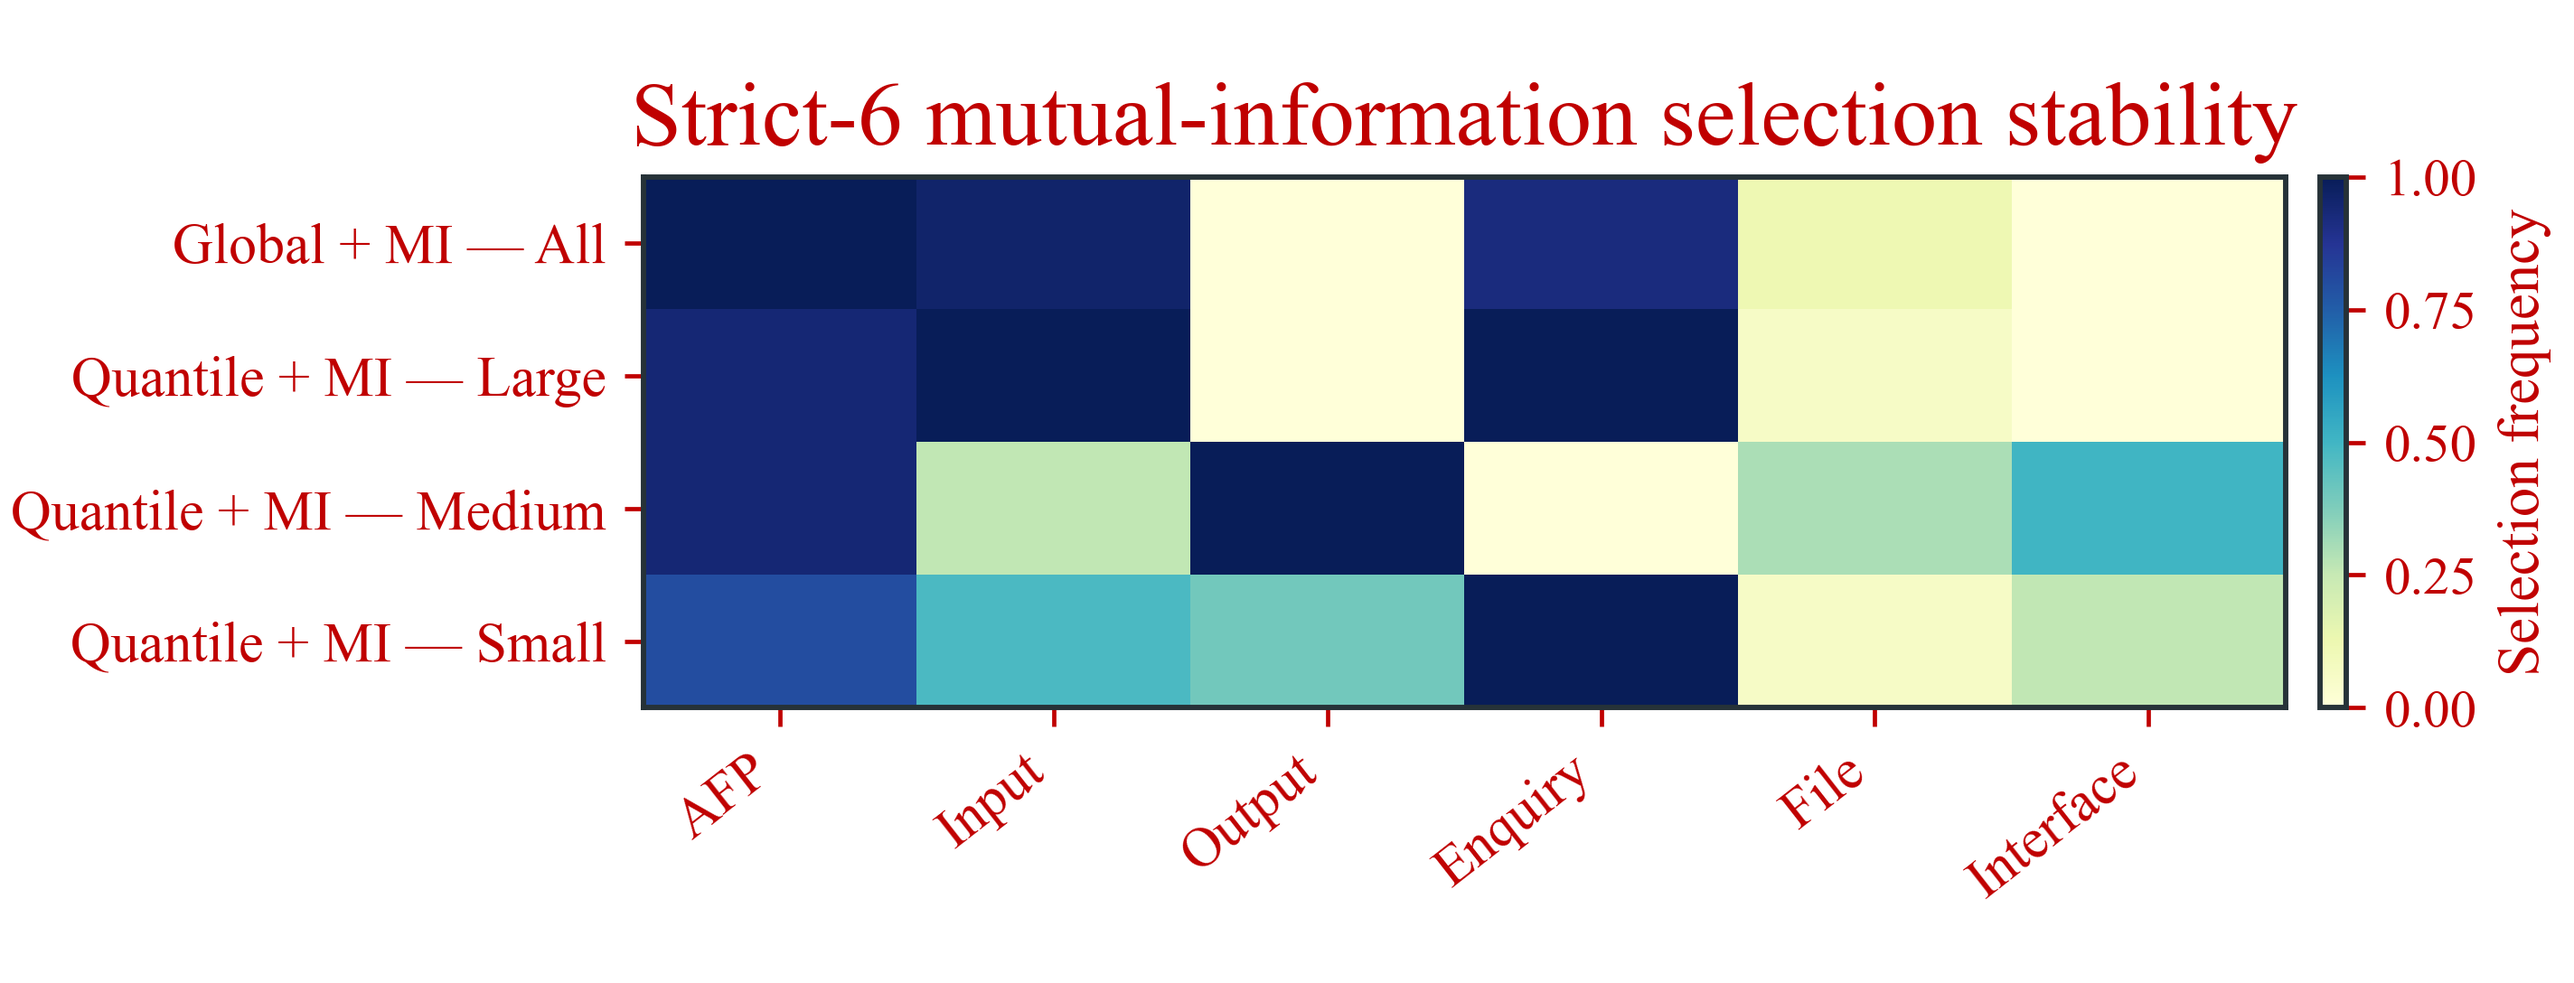
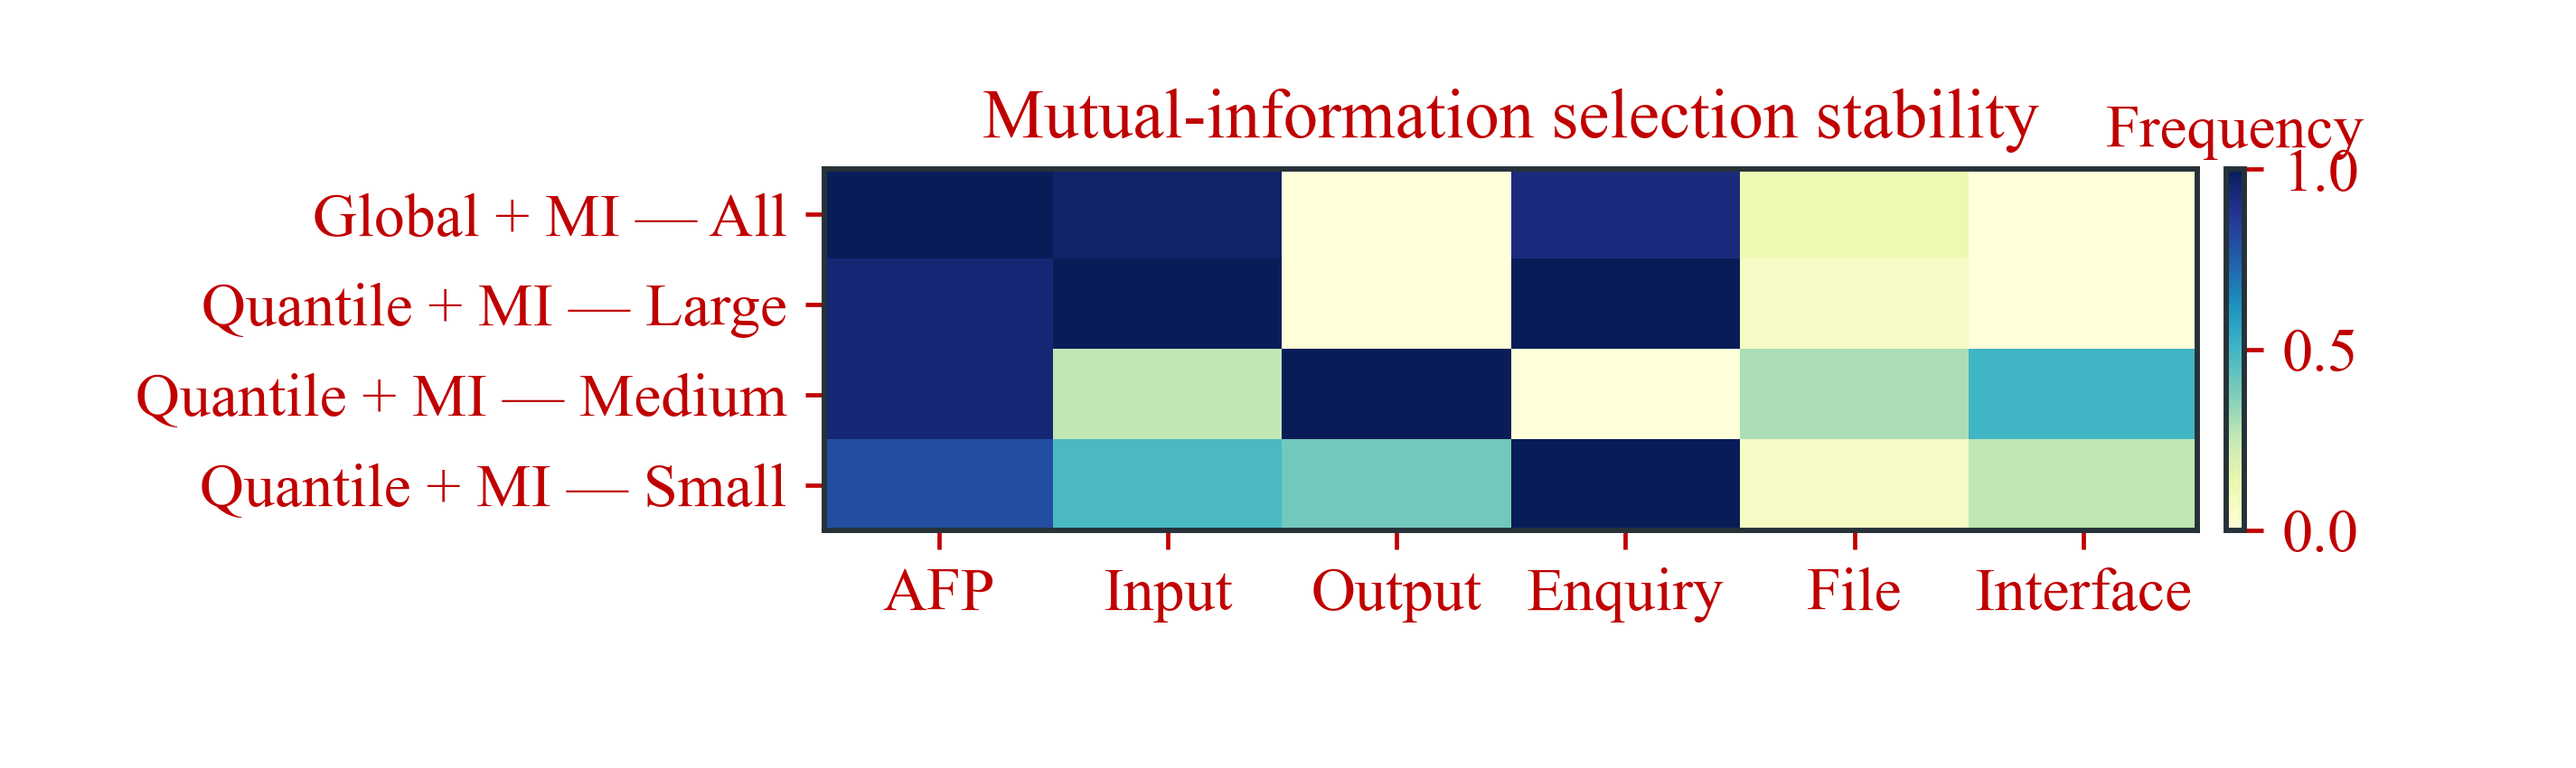
Refine manuscript figures for IJIES format

Changed region(s): [[0.0, 0.0918, 1.0, 0.9176], [0.25, 0.7647, 0.3125, 0.8565], [0.5625, 0.8259, 0.5938, 0.8871]]

diff --git a/generate_figures.py b/generate_figures.py
@@ -40,6 +40,11 @@ def configure_style() -> None:
             "ytick.color": TEXT_RED,
             "axes.edgecolor": EDGE,
             "axes.linewidth": 1.0,
+            "axes.labelsize": 12,
+            "axes.titlesize": 13,
+            "xtick.labelsize": 11.5,
+            "ytick.labelsize": 11.5,
+            "legend.fontsize": 11.5,
             "grid.color": "#E0E0E0",
             "grid.linewidth": 0.8,
             "figure.facecolor": "white",
@@ -60,7 +65,7 @@ def workflow_figure(path: Path) -> None:
     ax.set_ylim(0, 1)
     ax.axis("off")
 
-    def box(x, y, w, h, text, face, size=12, weight="normal"):
+    def box(x, y, w, h, text, face, size=10.5, weight="normal"):
         ax.add_patch(Rectangle((x, y), w, h, facecolor=face, edgecolor=EDGE, linewidth=1.5))
         ax.text(
             x + w / 2,
@@ -71,7 +76,7 @@ def workflow_figure(path: Path) -> None:
             fontsize=size,
             color=TEXT_RED,
             fontweight=weight,
-            linespacing=1.15,
+            linespacing=1.0,
         )
 
     def arrow(start, end):
@@ -80,73 +85,95 @@ def workflow_figure(path: Path) -> None:
                 start,
                 end,
                 arrowstyle="-|>",
-                mutation_scale=14,
-                linewidth=1.6,
+                mutation_scale=11,
+                linewidth=1.3,
                 color=EDGE,
                 shrinkA=2,
                 shrinkB=2,
             )
         )
 
-    ax.text(0.5, 0.975, "Availability-audited, fold-isolated workflow", ha="center", va="top", fontsize=15, color=TEXT_RED)
-    box(0.28, 0.88, 0.44, 0.06, "Outer split: training / held-out", "#ECEFF1", 12)
+    ax.text(
+        0.5,
+        0.985,
+        "Availability-audited, fold-isolated workflow",
+        ha="center",
+        va="top",
+        fontsize=12.5,
+        color=TEXT_RED,
+    )
+    box(0.01, 0.65, 0.20, 0.22, "OUTER\ntrain | test", "#ECEFF1", 10.5, "bold")
     box(
-        0.07,
-        0.71,
-        0.55,
-        0.12,
-        "TRAINING DATA ONLY\nimpute • thresholds • feature selection\ninner tuning • fit models",
+        0.24,
+        0.65,
+        0.34,
+        0.22,
+        "TRAIN ONLY\nimpute • split • select\ninner tune • fit",
         "#E8F5E9",
-        10,
+        10.5,
         "bold",
     )
-    box(0.68, 0.71, 0.25, 0.12, "Freeze fitted\nobjects", "#E3F2FD", 12)
+    box(0.62, 0.65, 0.14, 0.22, "FREEZE\nobjects", "#E3F2FD", 10.5, "bold")
     box(
-        0.20,
-        0.54,
-        0.60,
-        0.10,
-        "HELD-OUT PROJECT\ntransform • assign • route • predict",
-        "#FFF3E0",
-        11,
-    )
-    box(0.20, 0.40, 0.60, 0.085, "10 folds × 5 seeds\none prediction per project per repetition", "#F3E5F5", 11)
-    box(
-        0.06,
-        0.20,
-        0.40,
-        0.13,
-        "PRIMARY: STRICT-6\nGlobal • MI • quantile\nnested Extra Trees",
-        "#E0F2F1",
-        9.5,
-    )
-    box(
-        0.54,
-        0.20,
-        0.40,
-        0.13,
-        "SENSITIVITY\nuncertain-9 • leaky-14\nmodern benchmarks",
-        "#FCE4EC",
-        9.5,
-    )
-    box(
+        0.80,
+        0.65,
         0.18,
-        0.04,
-        0.64,
-        0.10,
-        "Shared 5,000-sample project bootstrap\npaired project analysis\ncorrected repeated-cross-validation test",
-        "#ECEFF1",
-        11,
+        0.22,
+        "HELD-OUT\ntransform\nroute/predict",
+        "#FFF3E0",
+        10.5,
+        "bold",
     )
-    arrow((0.50, 0.88), (0.35, 0.83))
-    arrow((0.62, 0.77), (0.68, 0.77))
-    arrow((0.81, 0.71), (0.62, 0.64))
-    arrow((0.50, 0.54), (0.50, 0.485))
-    arrow((0.46, 0.40), (0.31, 0.33))
-    arrow((0.54, 0.40), (0.69, 0.33))
-    arrow((0.31, 0.20), (0.42, 0.14))
-    arrow((0.69, 0.20), (0.58, 0.14))
-    save_exact(fig, path, 1651, 2050, dpi=300)
+    box(
+        0.04,
+        0.33,
+        0.28,
+        0.20,
+        "PRIMARY\nstrict-6 scenarios\nnested Extra Trees",
+        "#E0F2F1",
+        10.5,
+        "bold",
+    )
+    box(
+        0.36,
+        0.33,
+        0.28,
+        0.20,
+        "BASELINES\nforest • boosting\nstacking",
+        "#F3E5F5",
+        10.5,
+        "bold",
+    )
+    box(
+        0.68,
+        0.33,
+        0.28,
+        0.20,
+        "SENSITIVITY\nuncertain vs leaky\nfixed estimator",
+        "#FCE4EC",
+        10.5,
+        "bold",
+    )
+    box(
+        0.17,
+        0.04,
+        0.66,
+        0.20,
+        "SHARED INFERENCE\nproject bootstrap • paired tests\ncorrected repeated-CV test",
+        "#ECEFF1",
+        10.5,
+        "bold",
+    )
+    arrow((0.21, 0.76), (0.24, 0.76))
+    arrow((0.58, 0.76), (0.62, 0.76))
+    arrow((0.76, 0.76), (0.80, 0.76))
+    arrow((0.89, 0.65), (0.18, 0.53))
+    arrow((0.89, 0.65), (0.50, 0.53))
+    arrow((0.89, 0.65), (0.82, 0.53))
+    arrow((0.18, 0.33), (0.35, 0.24))
+    arrow((0.50, 0.33), (0.50, 0.24))
+    arrow((0.82, 0.33), (0.65, 0.24))
+    save_exact(fig, path, 2550, 1150, dpi=425)
 
 
 def metric_lookup(metrics: pd.DataFrame, family: str, feature_set: str, method: str, metric: str) -> pd.Series:
@@ -175,22 +202,22 @@ def provenance_figure(metrics: pd.DataFrame, path: Path) -> None:
         ax.bar(positions, values, color=bar_colors, width=0.62)
         ax.errorbar(positions, values, yerr=np.vstack([lower, upper]), fmt="none", color=EDGE, capsize=4, linewidth=1.3)
         ax.set_xticks(positions, labels)
-        ax.set_title(title, fontsize=15)
-        ax.tick_params(axis="x", labelsize=10)
-        ax.tick_params(axis="y", labelsize=11)
+        ax.set_title(title, fontsize=12)
+        ax.tick_params(axis="x", labelsize=11.5)
+        ax.tick_params(axis="y", labelsize=11.5)
         ax.grid(axis="y", alpha=0.8)
         ax.set_axisbelow(True)
         if metric == "Pred25":
             ax.set_ylim(0, 105)
             ax.yaxis.set_major_formatter(PercentFormatter(xmax=100, decimals=0))
-    fig.suptitle("Feature provenance changes the apparent accuracy", fontsize=17, color=TEXT_RED)
-    fig.subplots_adjust(left=0.07, right=0.98, bottom=0.22, top=0.80, wspace=0.22)
-    save_exact(fig, path, 2851, 1119, dpi=425)
+    fig.suptitle("Feature provenance changes apparent accuracy", fontsize=13.5, color=TEXT_RED)
+    fig.subplots_adjust(left=0.07, right=0.98, bottom=0.24, top=0.78, wspace=0.22)
+    save_exact(fig, path, 2850, 900, dpi=425)
 
 
 def performance_figure(metrics: pd.DataFrame, path: Path) -> None:
     methods = list(COLORS)
-    metric_titles = [("MAE", "MAE"), ("RMSE", "RMSE"), ("Pred25", "Pred(25), %"), ("R2", "R²")]
+    metric_titles = [("MAE", "MAE"), ("RMSE", "RMSE"), ("Pred25", "Pred(25), %"), ("R2", r"$R^2$")]
     fig, axes = plt.subplots(2, 2)
     for axis_index, (ax, (metric, title)) in enumerate(zip(axes.flat, metric_titles)):
         rows = [metric_lookup(metrics, "scale_nested_et", "strict6", method, metric) for method in methods]
@@ -206,20 +233,37 @@ def performance_figure(metrics: pd.DataFrame, path: Path) -> None:
                 fmt="o",
                 color=COLORS[method],
                 ecolor=EDGE,
-                capsize=4,
-                markersize=7,
-                linewidth=1.3,
+                capsize=3,
+                markersize=5.5,
+                linewidth=1.1,
             )
         ax.set_yticks(y, methods if axis_index % 2 == 0 else [""] * len(methods))
         ax.invert_yaxis()
-        ax.set_title(title, fontsize=14)
+        # Keep the metric label inside the panel. Upper-row numeric ticks are
+        # placed above the axes to avoid collisions in the compact 2x2 layout.
+        ax.text(
+            0.98,
+            0.92,
+            title,
+            transform=ax.transAxes,
+            ha="right",
+            va="top",
+            fontsize=11.5,
+            color=TEXT_RED,
+            bbox={"facecolor": "white", "edgecolor": "none", "alpha": 0.82, "pad": 0.8},
+        )
+        if axis_index < 2:
+            ax.xaxis.tick_top()
+            ax.tick_params(axis="x", labeltop=True, labelbottom=False)
         ax.grid(axis="x", alpha=0.8)
-        ax.tick_params(labelsize=10.5)
+        ax.tick_params(labelsize=11.5)
         if metric == "Pred25":
             ax.xaxis.set_major_formatter(PercentFormatter(xmax=100, decimals=0))
-    fig.suptitle("Strict-6 nested Extra Trees: shared 95% confidence intervals", fontsize=14, color=TEXT_RED)
-    fig.subplots_adjust(left=0.19, right=0.98, bottom=0.10, top=0.86, hspace=0.42, wspace=0.28)
-    save_exact(fig, path, 2849, 1983, dpi=425)
+    fig.suptitle("Strict-6 nested Extra Trees: shared 95% confidence intervals", fontsize=13.5, color=TEXT_RED)
+    # Keep the four panels legible at the final 6.1-inch manuscript width,
+    # while avoiding a tall canvas that forces an otherwise unnecessary page.
+    fig.subplots_adjust(left=0.18, right=0.98, bottom=0.12, top=0.78, hspace=0.24, wspace=0.26)
+    save_exact(fig, path, 2850, 1120, dpi=425)
 
 
 def paired_delta_frame(predictions: pd.DataFrame) -> pd.DataFrame:
@@ -259,13 +303,20 @@ def paired_figure(predictions: pd.DataFrame, path: Path) -> None:
         parts[key].set_linewidth(1.2)
     ax.axhline(0, color=TEXT_RED, linestyle="--", linewidth=1.4)
     ax.set_xticks(np.arange(1, 4), methods)
-    ax.set_ylabel("Global absolute error − comparator absolute error")
-    ax.set_title("Per-project error change averaged across five repetitions", fontsize=17)
-    ax.text(0.01, 0.96, "Positive values favor the comparator", transform=ax.transAxes, va="top", fontsize=11, color=TEXT_RED)
+    ax.set_title("Per-project error difference (five-repeat mean)", fontsize=13)
+    ax.text(
+        0.01,
+        0.95,
+        "Error difference (hours); positive favors comparator",
+        transform=ax.transAxes,
+        va="top",
+        fontsize=11.5,
+        color=TEXT_RED,
+    )
     ax.grid(axis="y", alpha=0.8)
-    ax.tick_params(labelsize=11)
-    fig.subplots_adjust(left=0.13, right=0.98, bottom=0.18, top=0.84)
-    save_exact(fig, path, 2848, 1288, dpi=425)
+    ax.tick_params(labelsize=11.5)
+    fig.subplots_adjust(left=0.16, right=0.98, bottom=0.20, top=0.82)
+    save_exact(fig, path, 2850, 900, dpi=425)
 
 
 def category_figure(summary: pd.DataFrame, path: Path) -> None:
@@ -278,18 +329,18 @@ def category_figure(summary: pd.DataFrame, path: Path) -> None:
     fig, ax = plt.subplots()
     y = np.arange(3)
     ax.errorbar(medians, y, xerr=np.vstack([low, high]), fmt="o", color="#2A9D8F", ecolor=EDGE, capsize=5, markersize=8)
-    ax.axvline(30, color=TEXT_RED, linestyle="--", linewidth=1.4, label="Pre-specified minimum n = 30")
+    ax.axvline(30, color=TEXT_RED, linestyle="--", linewidth=1.4, label=r"Pre-specified minimum $n$ = 30")
     ax.set_yticks(y, ["AFP quantiles", "Multivariate K-Means", "AFP K-Means"])
     ax.invert_yaxis()
     ax.set_xlabel("Smallest training category (projects)")
-    ax.set_title("Category adequacy over 50 outer training folds", fontsize=17)
+    ax.set_title("Category adequacy over 50 outer training folds", fontsize=13)
     ax.grid(axis="x", alpha=0.8)
-    legend = ax.legend(loc="lower right", frameon=True, fontsize=10)
+    legend = ax.legend(loc="lower right", frameon=True, fontsize=11.5)
     for text in legend.get_texts():
         text.set_color(TEXT_RED)
-    ax.tick_params(labelsize=11)
-    fig.subplots_adjust(left=0.24, right=0.98, bottom=0.20, top=0.82)
-    save_exact(fig, path, 2850, 1206, dpi=425)
+    ax.tick_params(labelsize=11.5)
+    fig.subplots_adjust(left=0.25, right=0.98, bottom=0.32, top=0.74)
+    save_exact(fig, path, 2850, 740, dpi=425)
 
 
 def mi_figure(mi_records: pd.DataFrame, path: Path) -> None:
@@ -308,17 +359,17 @@ def mi_figure(mi_records: pd.DataFrame, path: Path) -> None:
     )
     fig, ax = plt.subplots()
     image = ax.imshow(matrix.to_numpy(), aspect="auto", cmap="YlGnBu", vmin=0, vmax=1)
-    ax.set_xticks(np.arange(len(feature_order)), feature_order, rotation=38, ha="right")
+    ax.set_xticks(np.arange(len(feature_order)), feature_order, rotation=0, ha="center")
     ax.set_yticks(np.arange(len(row_order)), row_order)
-    ax.set_title("Strict-6 mutual-information selection stability", fontsize=17)
-    ax.tick_params(labelsize=10.5)
+    ax.set_title("Mutual-information selection stability", fontsize=13)
+    ax.tick_params(labelsize=11.5)
     colorbar = fig.colorbar(image, ax=ax, fraction=0.028, pad=0.02)
-    colorbar.set_label("Selection frequency", color=TEXT_RED, fontsize=11)
-    colorbar.ax.tick_params(colors=TEXT_RED, labelsize=10)
+    colorbar.ax.set_title("Frequency", color=TEXT_RED, fontsize=11.5, pad=4)
+    colorbar.ax.tick_params(colors=TEXT_RED, labelsize=11.5)
     for spine in colorbar.ax.spines.values():
         spine.set_edgecolor(EDGE)
-    fig.subplots_adjust(left=0.25, right=0.92, bottom=0.28, top=0.82)
-    save_exact(fig, path, 2848, 1088, dpi=425)
+    fig.subplots_adjust(left=0.32, right=0.88, bottom=0.31, top=0.78)
+    save_exact(fig, path, 2850, 850, dpi=425)
 
 
 def parse_args() -> argparse.Namespace:
